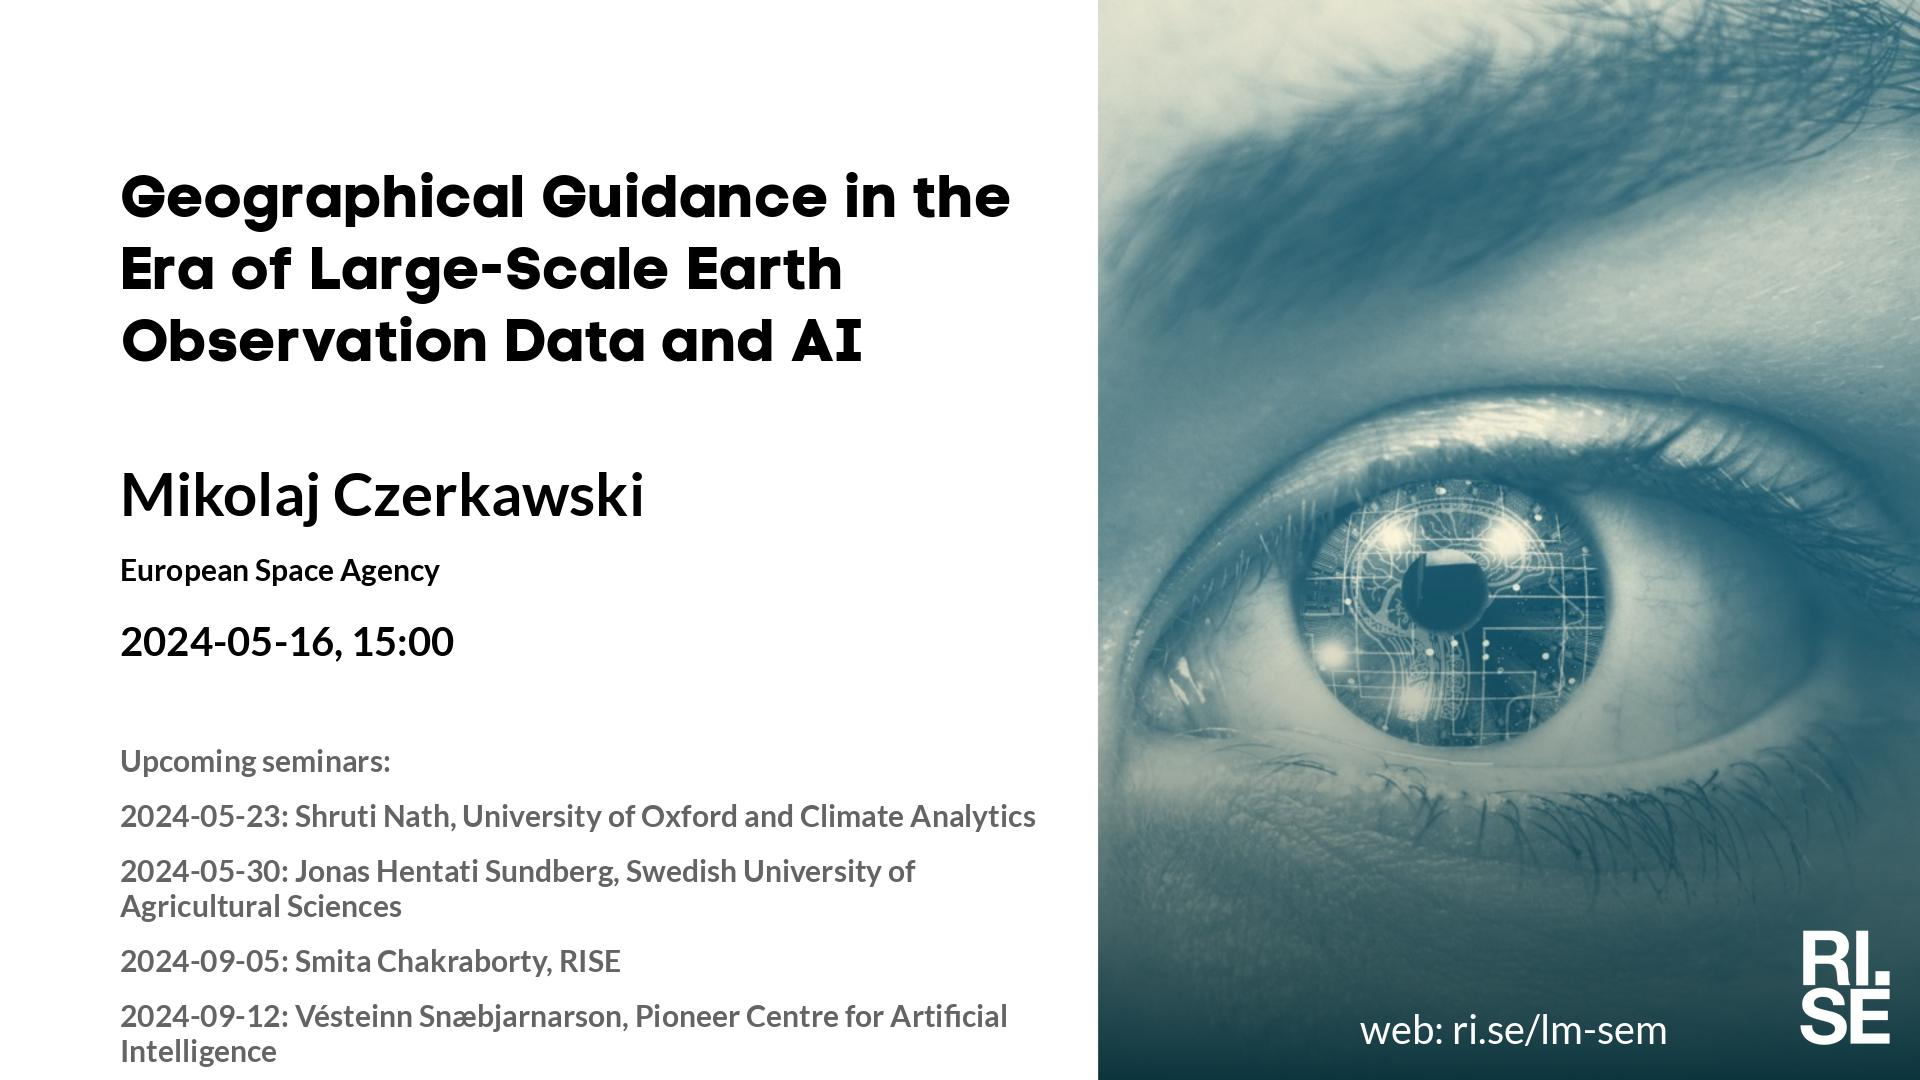
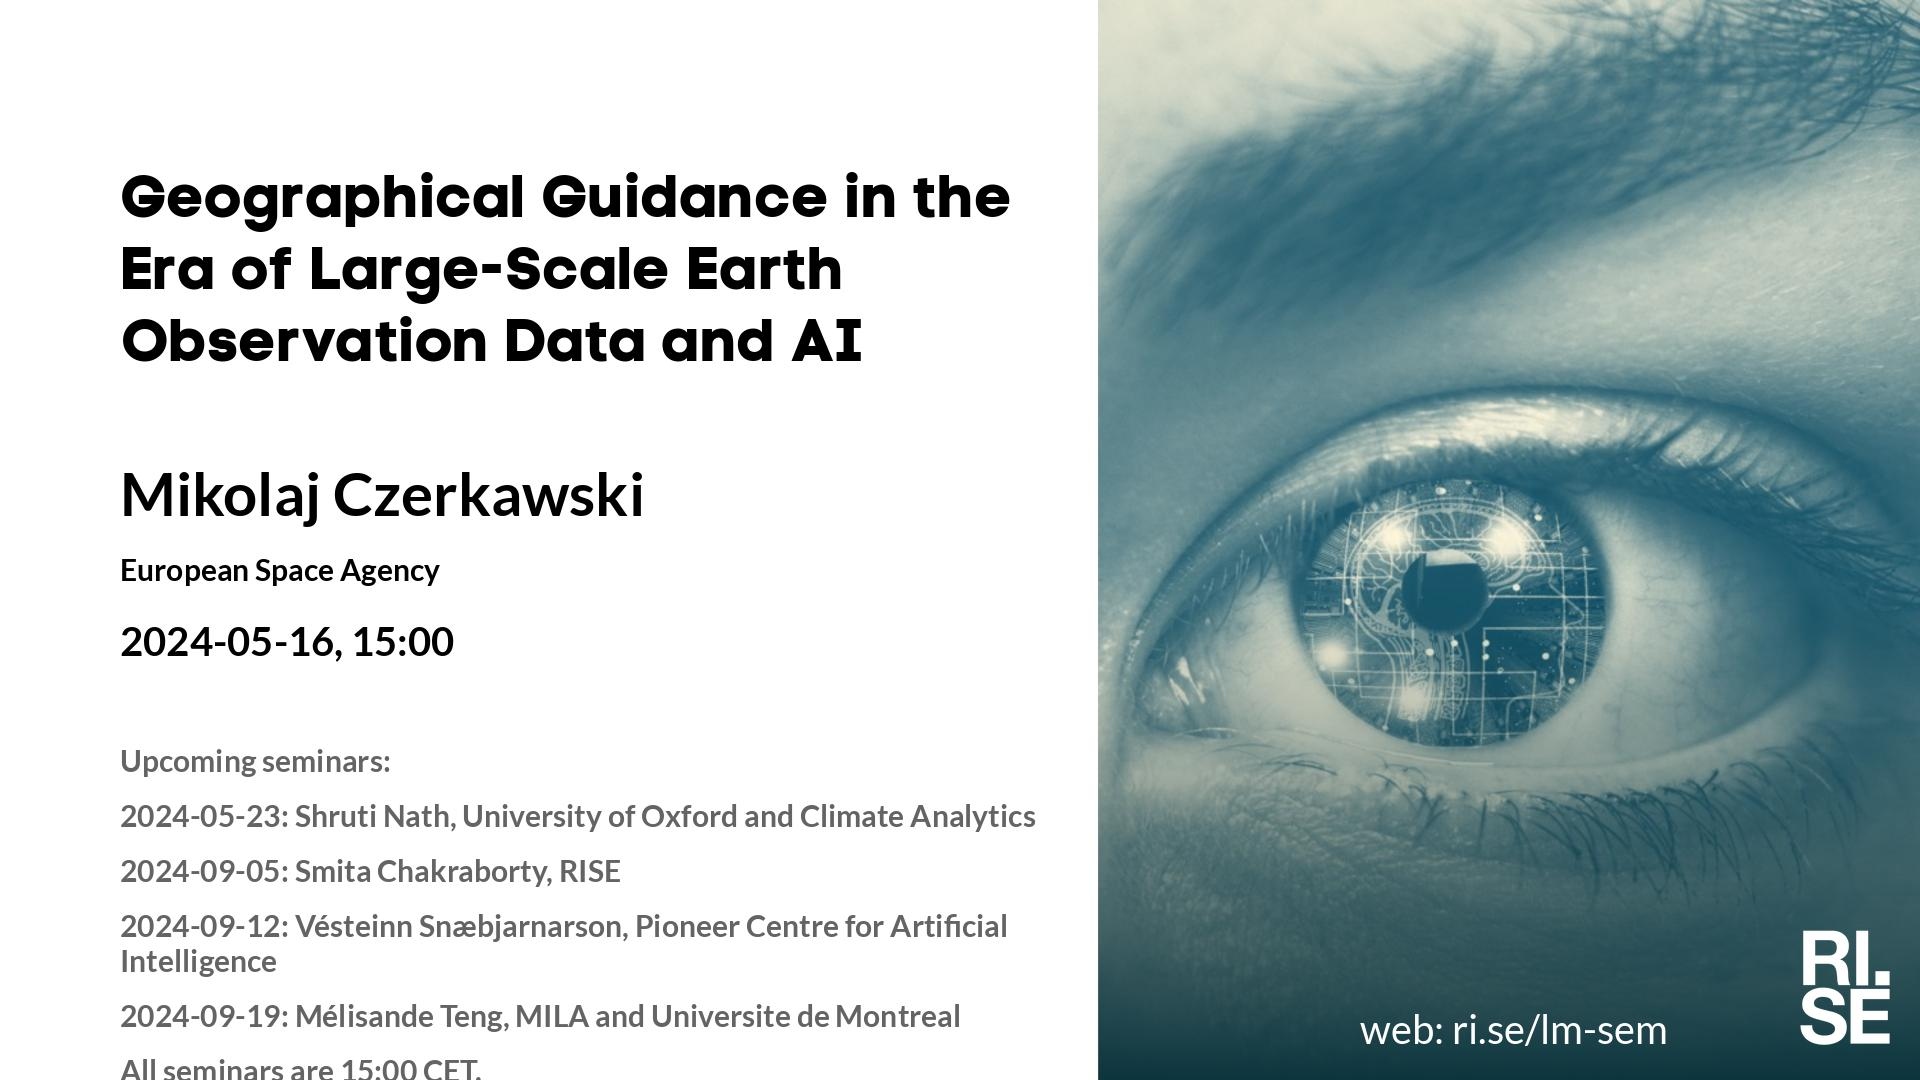
Updated plan on web site.

Changed region(s): [[0.0625, 0.7944, 0.5312, 0.9778], [0.0625, 0.9472, 0.25, 1.0]]

diff --git a/lm/index.md b/lm/index.md
@@ -5,15 +5,13 @@ metatags: "<meta name=\"robots\" content=\"noindex,nofollow\" />"
 <style type="text/css" scoped>
 td, th {border: 1px solid #ccc; padding: 0.6em;}
 table {border-collapse: collapse;}
-</style># Learning Machines Plan 2024-05-17
+</style># Learning Machines Plan 2024-05-24
 
 | date | speaker                                   | photo | shareable | meeting backdrop | youtube thumbnail | <a title="Speaker, Title, Abstract, Bio, Photo. Strikethrough means we don't have it yet.">comment</a>        |
 | ---- | ----------------------------------------- | ----- | ----- | ----- | ----- | -------------- |
-| <span style="color:red"> 2024-05-02 </span> | <span style="color:red"> ICLR </span> | <span style="color:red">  </span> | <span style="color:red">  </span> | <span style="color:red">  </span> | <span style="color:red">  </span> | <span style="color:red"> CANCELLED </span> |
 | <span style="color:red"> 2024-05-09 </span> | <span style="color:red"> ICLR </span> | <span style="color:red">  </span> | <span style="color:red">  </span> | <span style="color:red">  </span> | <span style="color:red">  </span> | <span style="color:red"> CANCELLED </span> |
 |  2024-05-16  |  [Mikolaj Czerkawski, European Space Agency](2024-05-16.md)  |  [photo](photo-mikolaj-czerkawski.jpg)  |  [social media ](social-media-mikolaj-czerkawski.jpg)  |  [meeting backdrop ](meeting-backdrop-mikolaj-czerkawski.jpg)  |  [youtube thumbnail ](youtube-thumbnail-mikolaj-czerkawski.jpg)  |  STABP  |
 |  2024-05-23  |  [Shruti Nath, University of Oxford and Climate Analytics](2024-05-23.md)  |  [photo](photo-shruti-nath.png)  |  [social media ](social-media-shruti-nath.jpg)  |  [meeting backdrop ](meeting-backdrop-shruti-nath.jpg)  |  [youtube thumbnail ](youtube-thumbnail-shruti-nath.jpg)  |  STABP  |
-|  2024-05-30  |  [Jonas Hentati Sundberg, Swedish University of Agricultural Sciences](2024-05-30.md)  |  [photo](photo-jonas-hentati-sundberg.jpg)  |  [social media ](social-media-jonas-hentati-sundberg.jpg)  |  [meeting backdrop ](meeting-backdrop-jonas-hentati-sundberg.jpg)  |  [youtube thumbnail ](youtube-thumbnail-jonas-hentati-sundberg.jpg)  |  S~~TAB~~P  |
 | <span style="color:red"> 2024-06-06 </span> | <span style="color:red"> National_day </span> | <span style="color:red">  </span> | <span style="color:red">  </span> | <span style="color:red">  </span> | <span style="color:red">  </span> | <span style="color:red"> CANCELLED </span> |
 |  2024-09-05  |  [Smita Chakraborty, RISE](2024-09-05.md)  |  [photo](photo-smita-chakraborty.jpg)  |  [social media ](social-media-smita-chakraborty.jpg)  |  [meeting backdrop ](meeting-backdrop-smita-chakraborty.jpg)  |  [youtube thumbnail ](youtube-thumbnail-smita-chakraborty.jpg)  |  S~~TAB~~P  |
 |  2024-09-12  |  [Vésteinn Snæbjarnarson, Pioneer Centre for Artificial Intelligence](2024-09-12.md)  |  [photo](photo-vesteinn-snaebjarnarson.jpg)  |  [social media ](social-media-vesteinn-snaebjarnarson.jpg)  |  [meeting backdrop ](meeting-backdrop-vesteinn-snaebjarnarson.jpg)  |  [youtube thumbnail ](youtube-thumbnail-vesteinn-snaebjarnarson.jpg)  |  S~~TAB~~P  |

diff --git a/lm/2024-05-16.md b/lm/2024-05-16.md
@@ -21,9 +21,9 @@ Welcome to this week's Learning Machines seminar.
 **Upcoming seminars:**
 
 * 2024-05-23: Shruti Nath, University of Oxford and Climate Analytics
-* 2024-05-30: Jonas Hentati Sundberg, Swedish University of Agricultural Sciences
 * 2024-09-05: Smita Chakraborty, RISE
 * 2024-09-12: Vésteinn Snæbjarnarson, Pioneer Centre for Artificial Intelligence
+* 2024-09-19: Mélisande Teng, MILA and Universite de Montreal
 * All seminars are 15:00 CET.
 
 More information and coming seminars: [https://ri.se/lm-sem](https://ri.se/lm-sem)

diff --git a/lm/2024-05-23.md b/lm/2024-05-23.md
@@ -20,9 +20,9 @@ Welcome to this week's Learning Machines seminar.
 
 **Upcoming seminars:**
 
-* 2024-05-30: Jonas Hentati Sundberg, Swedish University of Agricultural Sciences
 * 2024-09-05: Smita Chakraborty, RISE
 * 2024-09-12: Vésteinn Snæbjarnarson, Pioneer Centre for Artificial Intelligence
+* 2024-09-19: Mélisande Teng, MILA and Universite de Montreal
 * 2024-09-26: Charlie Fieseler, University of Vienna
 * All seminars are 15:00 CET.
 
